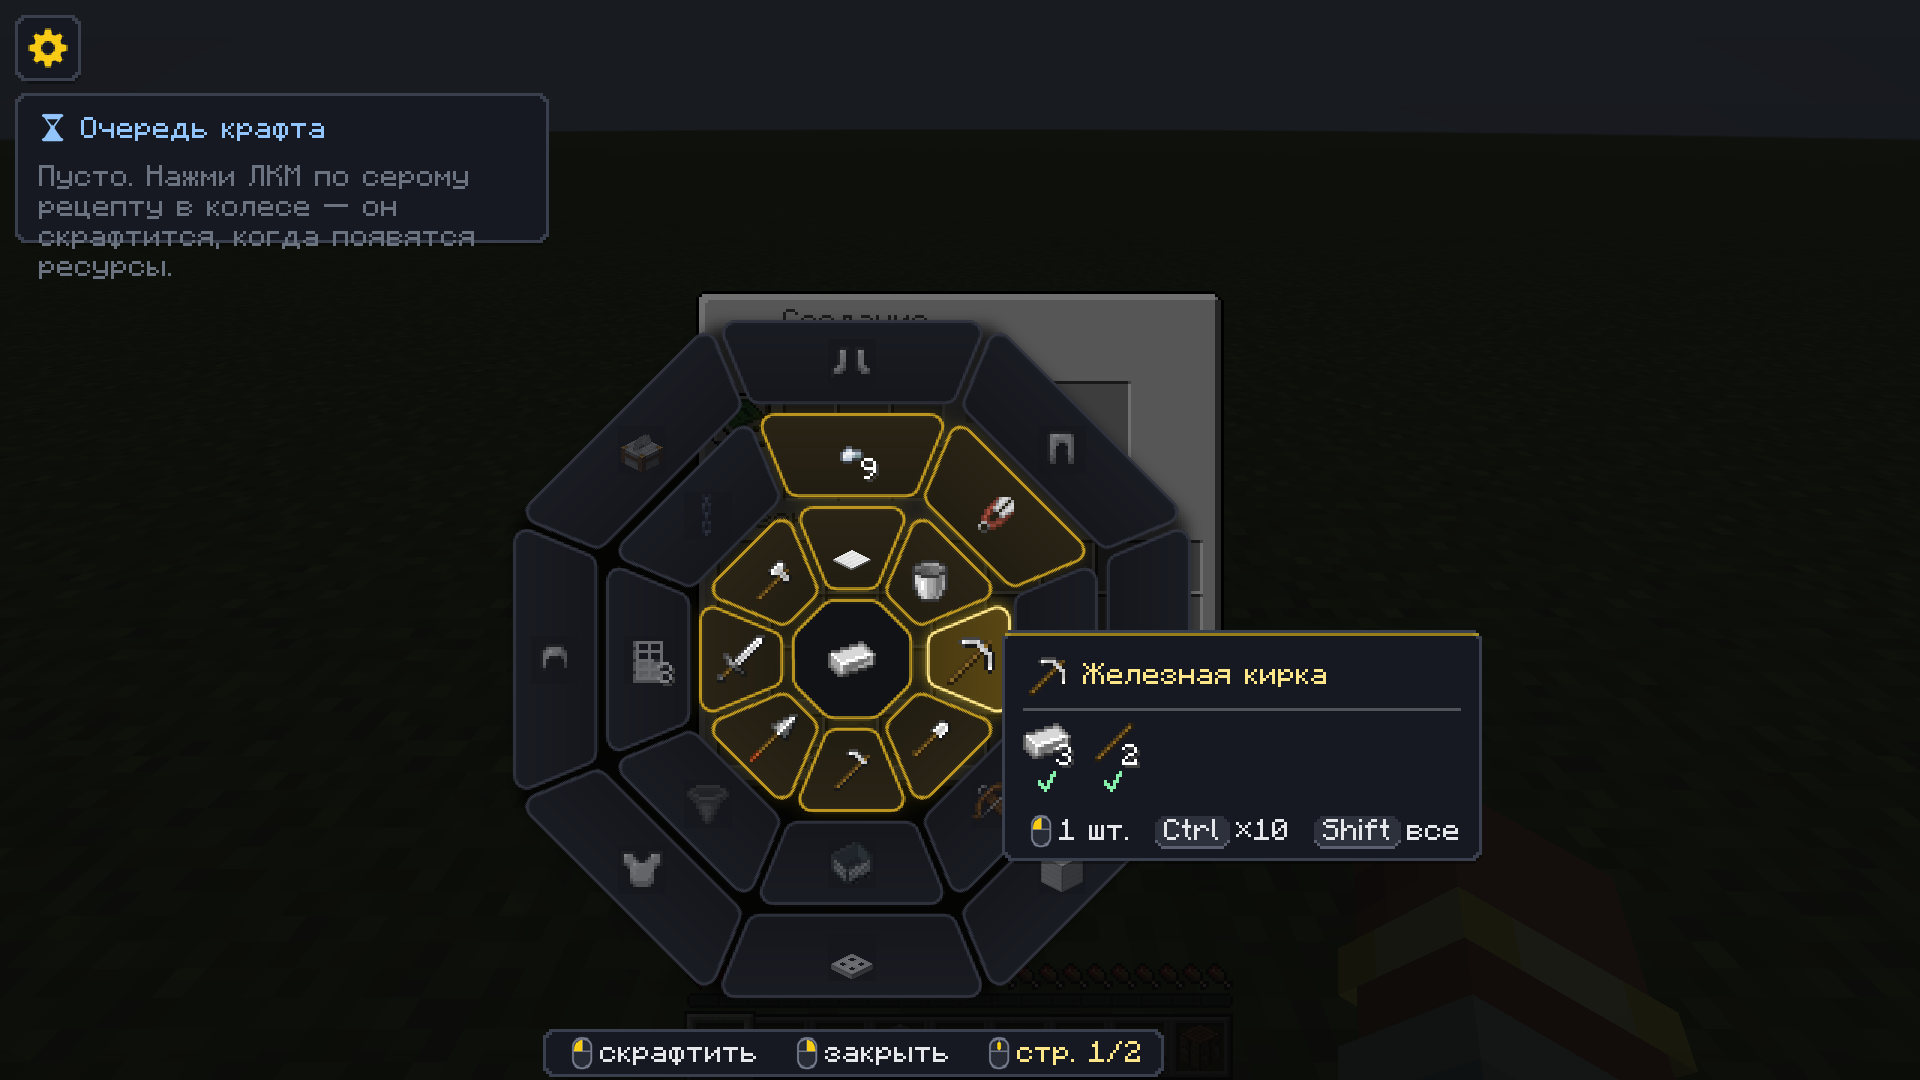
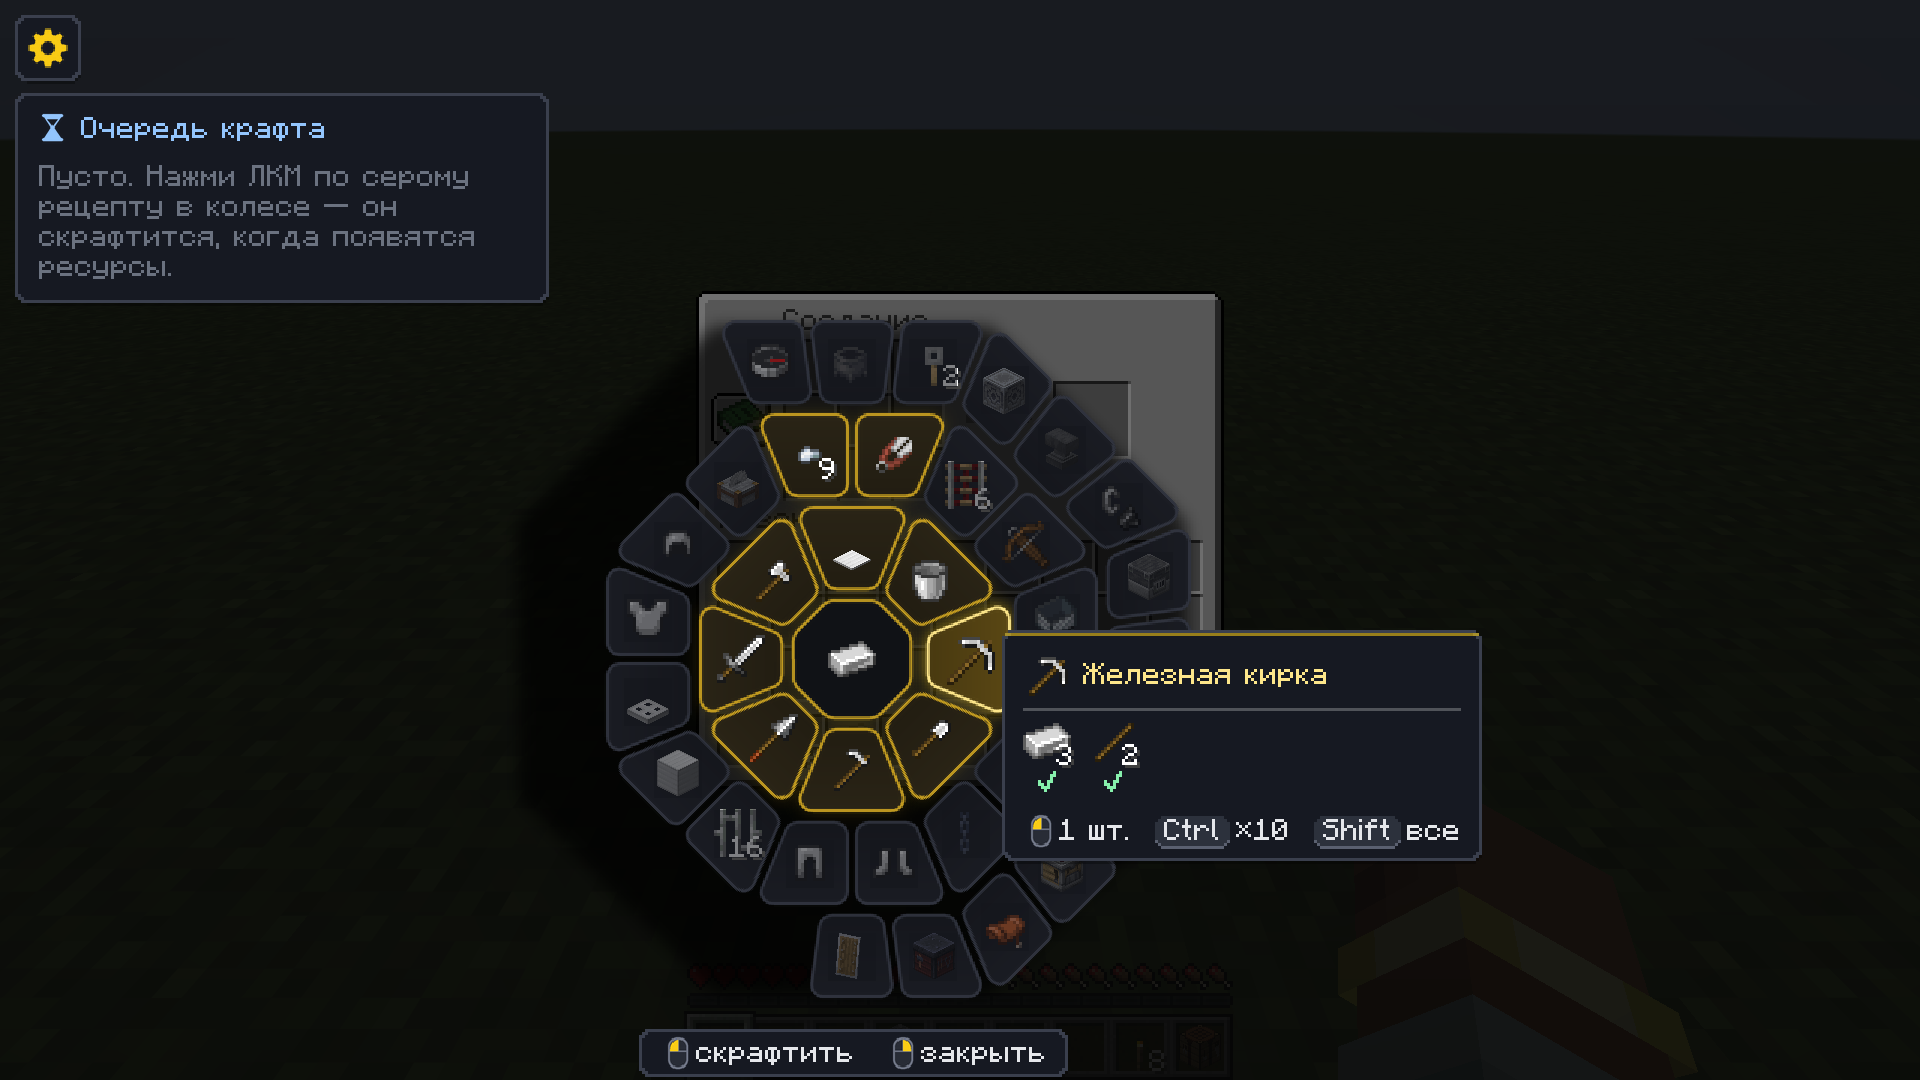
Outer rings hold more: 8, 16 and 24 buttons (octagon sides split in 2 and 3), 48 recipes per page
The lines between pieces go through the centre, so the hit test only needs the sideways share of the side.
The empty craft queue card now grows to fit its wrapped hint.

diff --git a/src/client/java/land/beezz/craft/Wheel.java b/src/client/java/land/beezz/craft/Wheel.java
@@ -22,19 +22,27 @@ final class Wheel {
     // geometry in GUI pixels, must match tools/make_textures.py
     static final int CENTER = 20, GLOW = 5;
     static final int[][] RINGS = {{23, 51}, {54, 82}, {85, 113}};
-    static final int PER_RING = 8, PER_PAGE = PER_RING * RINGS.length;
+    /** Pieces per octagon side: the outer rings are longer, so they hold 16 and 24 buttons instead of 8. */
+    static final int[] SPLIT = {1, 2, 3};
+    static final int PER_PAGE = 8 * (1 + 2 + 3);
     private static final double HALF = Math.toRadians(22.5);
     private static final long OPEN_MS = 160;
 
-    private static final Identifier[] FILL = new Identifier[3], EDGE = new Identifier[3], HALO = new Identifier[3];
+    private static final Identifier[][] FILL = new Identifier[3][], EDGE = new Identifier[3][], HALO = new Identifier[3][];
     private static final Identifier CENTER_FILL = Ui.tex("center_fill"), CENTER_EDGE = Ui.tex("center_edge"),
             CENTER_GLOW = Ui.tex("center_glow"), SHADOW = Ui.tex("shadow");
 
     static {
         for (int i = 0; i < 3; i++) {
-            FILL[i] = Ui.tex("ring" + (i + 1) + "_fill");
-            EDGE[i] = Ui.tex("ring" + (i + 1) + "_edge");
-            HALO[i] = Ui.tex("ring" + (i + 1) + "_glow");
+            FILL[i] = new Identifier[SPLIT[i]];
+            EDGE[i] = new Identifier[SPLIT[i]];
+            HALO[i] = new Identifier[SPLIT[i]];
+            for (int t = 0; t < SPLIT[i]; t++) {
+                String name = "ring" + (i + 1) + "_" + t;
+                FILL[i][t] = Ui.tex(name + "_fill");
+                EDGE[i][t] = Ui.tex(name + "_edge");
+                HALO[i][t] = Ui.tex(name + "_glow");
+            }
         }
     }
 
@@ -84,8 +92,18 @@ final class Wheel {
     }
 
     private int ringsUsed() {
-        int onPage = Math.min(PER_PAGE, shown.size() - page * PER_PAGE);
-        return Math.max(1, (onPage + PER_RING - 1) / PER_RING);
+        int onPage = Math.min(PER_PAGE, shown.size() - page * PER_PAGE), rings = 0, cap = 0;
+        while (rings < RINGS.length && cap < onPage) cap += 8 * SPLIT[rings++];
+        return Math.max(1, rings);
+    }
+
+    /** Where slot s of a page sits: ring, octagon side (0 = up, clockwise), piece of that side, pieces per side. */
+    record Pos(int ring, int side, int piece, int split) {}
+
+    static Pos pos(int slot) {
+        int ring = 0;
+        while (slot >= 8 * SPLIT[ring]) slot -= 8 * SPLIT[ring++];
+        return new Pos(ring, slot / SPLIT[ring], slot % SPLIT[ring], SPLIT[ring]);
     }
 
     /** Centre on the mouse but keep the whole wheel on screen; shrink it on very small windows. */
@@ -121,24 +139,43 @@ final class Wheel {
     /** Index into shown of the sector under the mouse, -1 for none; -2 = the centre. */
     private int hit(double mx, double my) {
         double dx = (mx - cx) / scale, dy = (my - cy) / scale;
-        int k = Math.floorMod((int) Math.round((Math.toDegrees(Math.atan2(dy, dx)) + 90) / 45), 8);
-        double a = angle(k), proj = dx * Math.cos(a) + dy * Math.sin(a);
+        int side = Math.floorMod((int) Math.round((Math.toDegrees(Math.atan2(dy, dx)) + 90) / 45), 8);
+        double a = angle(side), proj = dx * Math.cos(a) + dy * Math.sin(a);
         if (proj < CENTER) return Math.hypot(dx, dy) < CENTER + 2 ? -2 : -1;
+        // the lines between pieces go through the centre: the piece follows from the sideways share of the side
+        double lat = dx * Math.cos(a + Math.PI / 2) + dy * Math.sin(a + Math.PI / 2), u = lat / (proj * Math.tan(HALF));
+        int offset = 0;
         for (int ring = 0; ring < ringsUsed(); ring++) {
+            int m = SPLIT[ring];
             if (proj >= RINGS[ring][0] - 1 && proj <= RINGS[ring][1] + 1) {
-                int index = page * PER_PAGE + ring * PER_RING + k;
+                int piece = Math.max(0, Math.min(m - 1, (int) Math.floor((u + 1) / 2 * m)));
+                int index = page * PER_PAGE + offset + side * m + piece;
                 return index < shown.size() ? index : -1;
             }
+            offset += 8 * m;
         }
         return -1;
     }
 
-    /** Screen point of the middle of sector slot (0..23 on the page), with its lift. */
-    private float[] point(int slot, float extra) {
-        int ring = slot / PER_RING, k = slot % PER_RING;
-        double mid = (RINGS[ring][0] + RINGS[ring][1]) / 2.0 + extra, a = angle(k);
-        float z = zoom();
-        return new float[] {cx + (float) (Math.cos(a) * mid) * z, cy + (float) (Math.sin(a) * mid) * z};
+    /** Unit vector from the centre through the middle of a piece. */
+    private static double[] dir(Pos p) {
+        double a = angle(p.side()), mid = (RINGS[p.ring()][0] + RINGS[p.ring()][1]) / 2.0;
+        double u = -1 + (2 * p.piece() + 1.0) / p.split(), lat = u * mid * Math.tan(HALF);
+        double x = Math.cos(a) * mid + Math.cos(a + Math.PI / 2) * lat, y = Math.sin(a) * mid + Math.sin(a + Math.PI / 2) * lat;
+        double len = Math.hypot(x, y);
+        return new double[] {x, y, len};
+    }
+
+    /** Screen point of the middle of a slot on the page, pushed outwards by extra GUI px. */
+    float[] point(int slot, float extra) {
+        double[] d = dir(pos(slot));
+        float z = zoom(), k = (float) ((d[2] + extra) / d[2]);
+        return new float[] {cx + (float) d[0] * k * z, cy + (float) d[1] * k * z};
+    }
+
+    /** Screen point of the sector of shown.get(index) (on the current page). */
+    float[] centre(int index) {
+        return point(index - page * PER_PAGE, 0);
     }
 
     // ------------------------------------------------------------------ drawing
@@ -156,27 +193,29 @@ final class Wheel {
         }
 
         // shadow, glows, then the sectors
-        layer(g, SHADOW, RINGS[ringsUsed() - 1][1], 0, 0, Ui.fade(0xB0000000, a));
+        layer(g, SHADOW, RINGS[ringsUsed() - 1][1], 0, 0, 0, Ui.fade(0xB0000000, a));
         for (int i = start; i < end; i++) {
             Recipes.Option o = shown.get(i);
-            int slot = i - start, ring = slot / PER_RING, k = slot % PER_RING;
+            int slot = i - start;
+            Pos p = pos(slot);
             boolean queued = Crafter.queued(o.entry) > 0;
             int glow = queued ? GLOW_QUEUED : o.craftable ? (lift[slot] > 0.5f ? GLOW_OK_HOVER : GLOW_OK) : 0;
-            if (glow != 0) layer(g, HALO[ring], RINGS[ring][1], k, lift[slot] * 2, Ui.fade(glow, a));
+            if (glow != 0) piece(g, HALO, p, lift[slot] * 2, Ui.fade(glow, a));
         }
         for (int i = start; i < end; i++) {
             Recipes.Option o = shown.get(i);
-            int slot = i - start, ring = slot / PER_RING, k = slot % PER_RING;
+            int slot = i - start;
+            Pos p = pos(slot);
             boolean h = lift[slot] > 0.5f;
             int fill = o.craftable ? (h ? FILL_OK_HOVER : FILL_OK) : (h ? FILL_NO_HOVER : FILL_NO);
             int edge = Crafter.queued(o.entry) > 0 ? EDGE_QUEUED : o.craftable ? (h ? EDGE_OK_HOVER : EDGE_OK) : (h ? EDGE_NO_HOVER : EDGE_NO);
             float push = lift[slot] * 2;
-            layer(g, FILL[ring], RINGS[ring][1], k, push, Ui.fade(fill, a));
-            layer(g, EDGE[ring], RINGS[ring][1], k, push, Ui.fade(edge, a));
+            piece(g, FILL, p, push, Ui.fade(fill, a));
+            piece(g, EDGE, p, push, Ui.fade(edge, a));
         }
-        layer(g, CENTER_GLOW, CENTER, 0, 0, Ui.fade(hover == -2 ? 0x80FACC15 : 0x30FACC15, a));
-        layer(g, CENTER_FILL, CENTER, 0, 0, Ui.fade(CENTER_FILL_C, a));
-        layer(g, CENTER_EDGE, CENTER, 0, 0, Ui.fade(hover == -2 ? EDGE_OK_HOVER : EDGE_OK, a));
+        layer(g, CENTER_GLOW, CENTER, 0, 0, 0, Ui.fade(hover == -2 ? 0x80FACC15 : 0x30FACC15, a));
+        layer(g, CENTER_FILL, CENTER, 0, 0, 0, Ui.fade(CENTER_FILL_C, a));
+        layer(g, CENTER_EDGE, CENTER, 0, 0, 0, Ui.fade(hover == -2 ? EDGE_OK_HOVER : EDGE_OK, a));
 
         // items on top: the hovered one grows
         g.nextStratum();
@@ -233,13 +272,18 @@ final class Wheel {
         }
     }
 
-    /** One wheel texture rotated into sector k around the centre, pushed outwards by push GUI px. */
-    private void layer(GuiGraphicsExtractor g, Identifier tex, int apothem, int k, float push, int color) {
+    /** One piece of a ring, pushed outwards (through its own middle) by push GUI px. */
+    private void piece(GuiGraphicsExtractor g, Identifier[][] tex, Pos p, float push, int color) {
+        double[] d = dir(p);
+        layer(g, tex[p.ring()][p.piece()], RINGS[p.ring()][1], p.side(), (float) (d[0] / d[2] * push), (float) (d[1] / d[2] * push), color);
+    }
+
+    /** One wheel texture rotated onto octagon side k around the centre, shifted by (px, py) GUI px. */
+    private void layer(GuiGraphicsExtractor g, Identifier tex, int apothem, int k, float px, float py, int color) {
         int size = canvas(apothem);
         float z = zoom();
-        double a = angle(k);
         g.pose().pushMatrix();
-        g.pose().translate(cx + (float) Math.cos(a) * push * z, cy + (float) Math.sin(a) * push * z);
+        g.pose().translate(cx + px * z, cy + py * z);
         g.pose().scale(z, z);
         g.pose().rotate((float) Math.toRadians(45 * k));
         g.blit(RenderPipelines.GUI_TEXTURED, tex, -size / 2, -size / 2, 0, 0, size, size, size * 2, size * 2, size * 2, size * 2, color);

diff --git a/tools/make_textures.py b/tools/make_textures.py
@@ -10,6 +10,7 @@ from PIL import Image, ImageDraw, ImageFilter
 # must match Wheel.java
 CENTER = 20                                  # apothem of the centre plate
 RINGS = [(23, 51), (54, 82), (85, 113)]      # inner and outer apothem of each ring
+SPLIT = [1, 2, 3]                            # pieces per octagon side: 8, 16 and 24 buttons per ring
 GAP = 2.2                                    # gap between neighbouring sectors (GUI px)
 ROUND = 4.5                                  # corner radius (GUI px)
 EDGE = 1.0                                   # border thickness (GUI px)
@@ -52,15 +53,19 @@ def rounded(points, r):
     return out
 
 
-def sector(a_in, a_out, size, shrink=0.0):
+def sector(a_in, a_out, size, shrink=0.0, u0=-1.0, u1=1.0):
+    """One piece of an octagon side, pointing up. u0..u1 (from -1 to 1) is its share of the side; the lines between
+    pieces go through the centre, so every piece of a ring has the same shape (mirrored)."""
     c = size * SS / 2
     a_in, a_out = a_in + shrink, a_out - shrink
     t = math.tan(HALF)
-    side = GAP / 2 + shrink
-    pts = []
-    for a, sign in ((a_out, -1), (a_out, 1), (a_in, 1), (a_in, -1)):
-        half_w = a * t - side / math.cos(HALF)
-        pts.append((c + sign * half_w * SS, c - a * SS))
+
+    def x(a, u, side):  # side: +1 = left edge of the piece (moves right), -1 = right edge
+        gap = (GAP / 2 + shrink) / (math.cos(HALF) if abs(u) == 1 else 1)
+        return c + (u * a * t + side * gap) * SS
+
+    pts = [(x(a_out, u0, 1), c - a_out * SS), (x(a_out, u1, -1), c - a_out * SS),
+           (x(a_in, u1, -1), c - a_in * SS), (x(a_in, u0, 1), c - a_in * SS)]
     return rounded(pts, max(0.5, ROUND - shrink) * SS)
 
 
@@ -162,10 +167,14 @@ def main():
     os.makedirs(OUT, exist_ok=True)
     for i, (a_in, a_out) in enumerate(RINGS, 1):
         size = canvas_size(a_out)
-        shape = sector(a_in, a_out, size)
-        save(shaded(shape, size, a_in, a_out), size, f"ring{i}_fill.png")
-        save(outline(shape, sector(a_in, a_out, size, EDGE), size), size, f"ring{i}_edge.png")
-        glow(shape, size).save(os.path.join(OUT, f"ring{i}_glow.png"))
+        m = SPLIT[i - 1]
+        for k in range(m):
+            u0, u1 = -1 + 2 * k / m, -1 + 2 * (k + 1) / m
+            shape = sector(a_in, a_out, size, 0, u0, u1)
+            name = f"ring{i}_{k}"
+            save(shaded(shape, size, a_in, a_out), size, name + "_fill.png")
+            save(outline(shape, sector(a_in, a_out, size, EDGE, u0, u1), size), size, name + "_edge.png")
+            glow(shape, size).save(os.path.join(OUT, name + "_glow.png"))
     size = canvas_size(CENTER)
     shape = octagon(CENTER, size)
     save(shaded(shape, size, 0, 0), size, "center_fill.png")

diff --git a/src/client/java/land/beezz/craft/Panel.java b/src/client/java/land/beezz/craft/Panel.java
@@ -74,6 +74,13 @@ final class Panel {
         return Crafter.jobs().stream().filter(j -> j.queued).toList();
     }
 
+    /** Height of the queue card: its rows, or the wrapped hint when it is empty. */
+    private static int queueH() {
+        int shown = Math.min(queued().size(), 8);
+        if (shown > 0) return 22 + shown * QROW + 4;
+        return 22 + Minecraft.getInstance().font.split(Component.translatable("beezzcraft.queue.empty"), W - 14).size() * 10 + 6;
+    }
+
     private static boolean showQueue() {
         return Config.get().queue || !queued().isEmpty();
     }
@@ -125,7 +132,7 @@ final class Panel {
     private static void renderQueue(AbstractContainerScreen<?> screen, GuiGraphicsExtractor g, Font font, int mx, int my) {
         List<Crafter.Job> jobs = queued();
         int shown = Math.min(jobs.size(), 8);
-        int y = queueY(), h = 22 + Math.max(1, shown) * QROW + 4;
+        int y = queueY(), h = queueH();
         Ui.panel(g, X, y, W, h);
         Ui.icon(g, Ui.QUEUE, X + 6, y + 5, 11, Ui.BLUE);
         g.text(font, Component.translatable("beezzcraft.hud"), X + 21, y + 7, Ui.BLUE, false);
@@ -199,7 +206,7 @@ final class Panel {
         if (showQueue()) {
             List<Crafter.Job> jobs = queued();
             int y = queueY(), shown = Math.min(jobs.size(), 8);
-            if (in(mx, my, X, y, W, 22 + Math.max(1, shown) * QROW + 4)) {
+            if (in(mx, my, X, y, W, queueH())) {
                 int ry = y + 21;
                 for (int i = 0; i < shown; i++) {
                     if (in(mx, my, X + W - 16, ry + 4, 12, 12)) {

diff --git a/src/gametest/java/land/beezz/craft/WheelTest.java b/src/gametest/java/land/beezz/craft/WheelTest.java
@@ -80,12 +80,11 @@ public class WheelTest implements FabricClientGameTest {
     private double[] sectorOf(Item result) {
         return ctx.computeOnClient(mc -> {
             Wheel w = BeezzCraft.wheel;
-            float cx = (float) field(Wheel.class, w, "cx"), cy = (float) field(Wheel.class, w, "cy"), sc = (float) field(Wheel.class, w, "scale");
             for (int i = 0; i < w.shown.size(); i++) {
                 if (!w.shown.get(i).result.is(result)) continue;
-                int slot = i % Wheel.PER_PAGE, ring = slot / Wheel.PER_RING, k = slot % Wheel.PER_RING;
-                double mid = (Wheel.RINGS[ring][0] + Wheel.RINGS[ring][1]) / 2.0, a = Math.toRadians(-90 + 45 * k);
-                return new double[] {cx + Math.cos(a) * mid * sc, cy + Math.sin(a) * mid * sc};
+                w.page = i / Wheel.PER_PAGE;
+                float[] p = w.centre(i);
+                return new double[] {p[0], p[1]};
             }
             throw new IllegalStateException("no sector for " + result + " among " + w.shown.size());
         });

diff --git a/README.md b/README.md
@@ -4,7 +4,8 @@ Fabric client mod for Minecraft **26.3**: **Alt + right click** on an item in th
 an octagon wheel of everything you can craft from it.
 
 - **Inner ring**: what you can craft right now. **Grey**: missing resources.
-- Up to 8 recipes per ring, up to 3 rings; more go to pages (mouse wheel).
+- Rings of 8, 16 and 24 buttons (the outer rings split each octagon side in 2 and 3), 48 recipes per page; more go to
+  pages (mouse wheel).
 - **Hover** a sector: a card with the result, the ingredients as icons (green tick = enough, red = how many are
   missing) and the clicks drawn as mouse and key pictures.
 - **Click** crafts once, **Ctrl + click** crafts 10 times, **Shift + click** crafts as many as possible.
